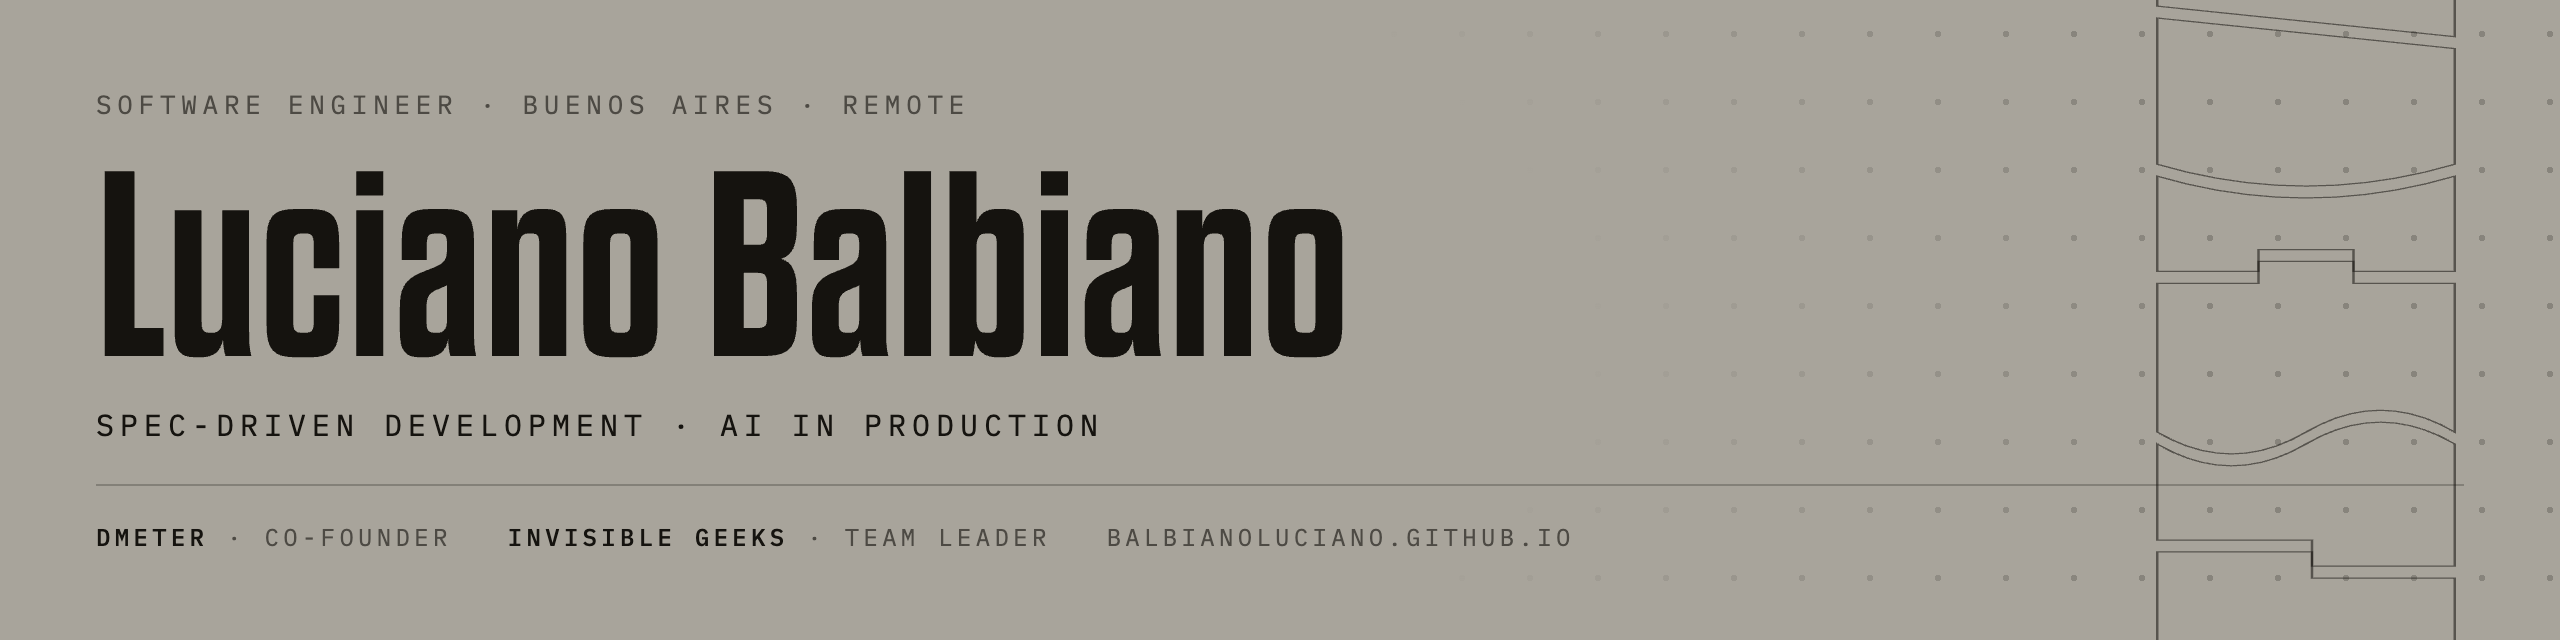
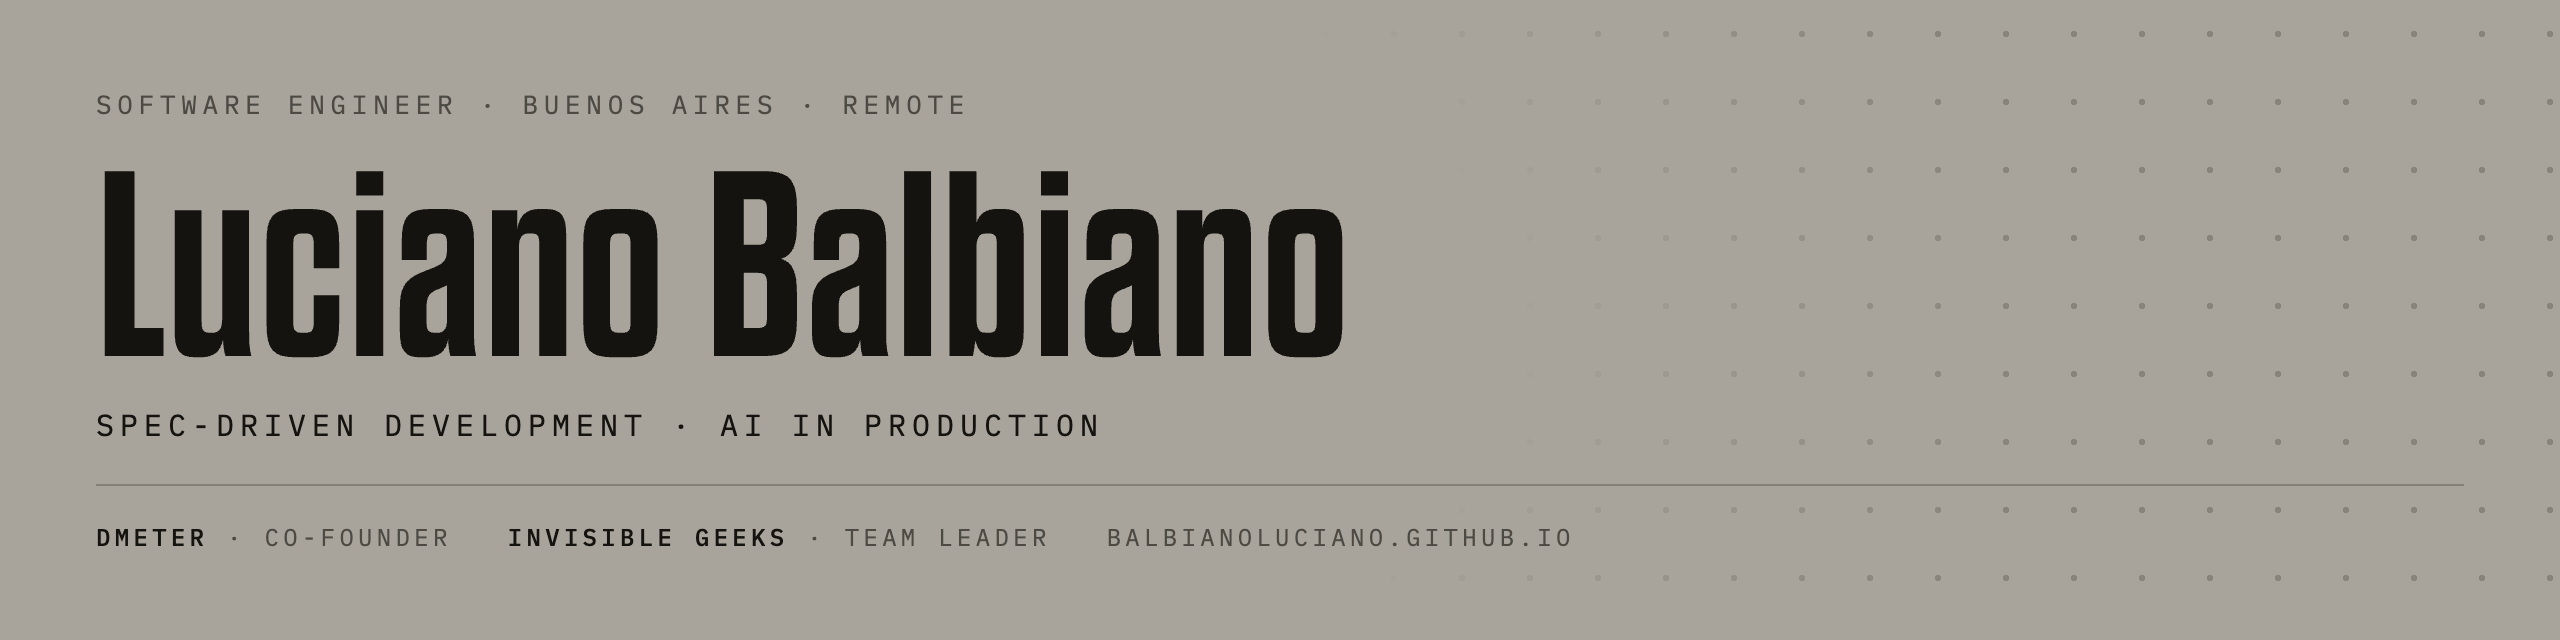
feat(readme): botones e insignias propias, y los proyectos arriba
- Cabecera sin las piezas de la derecha.
- Los links dejan de ser texto azul: pasan a ser bloques cuadrados de hormigon
  con la flecha, generados por scripts/insignias.mjs. El portfolio es el unico
  en baranda, que es el acento del manual.
- El stack deja los badges de logos ajenos por chips de linea fina con la misma
  mono en caja alta.
- Orden: introduccion, proyectos, open source, stack, formacion, disponibilidad
  y al final las contribuciones, que son un agregado.
- Open source queda solo con autofill: el portfolio es un portfolio, no una
  herramienta.

diff --git a/scripts/cabecera.html b/scripts/cabecera.html
@@ -15,7 +15,7 @@
     display: flex; flex-direction: column; justify-content: space-between;
     /* Los agujeros de los tensores: solo en el vacio de la derecha */
     background-image:
-      radial-gradient(ellipse 62% 120% at 24% 50%, #a8a49b 60%, transparent 100%),
+      radial-gradient(ellipse 58% 120% at 22% 50%, #a8a49b 62%, transparent 100%),
       radial-gradient(circle at center, rgba(21, 19, 15, 0.22) 0 1.6px, transparent 1.7px);
     background-size: 100% 100%, 34px 34px;
   }
@@ -28,9 +28,6 @@
   .pie { display: flex; gap: 28px; font-size: 12px; letter-spacing: 0.18em; text-transform: uppercase; color: rgba(21,19,15,.62);
          border-top: 1px solid rgba(21,19,15,.25); padding-top: 18px; }
   .pie b { color: #15130f; font-weight: 500; }
-  .piezas { position: absolute; right: 52px; top: -26px; height: calc(100% + 52px); width: 150px; }
-  .piezas svg { width: 100%; height: 100%; overflow: visible; }
-  .piezas path { fill: none; stroke: rgba(21,19,15,.55); stroke-width: 1.25; }
 </style>
 <div class="cabecera">
   <div>
@@ -45,42 +42,4 @@
     <span><b>Invisible Geeks</b> · team leader</span>
     <span>balbianoluciano.github.io</span>
   </div>
-  <div class="piezas"></div>
 </div>
-<script>
-  // Las mismas juntas del mapa de proyectos: cada una distinta, y la misma
-  // linea a los dos lados, por eso encastran.
-  const JUNTAS = [
-    [[0,-0.7],['L',1,0.7]],
-    [[0,0],['Q',0.5,2,1,0]],
-    [[0,0],['L',0.34,0],['L',0.34,-1],['L',0.66,-1],['L',0.66,0],['L',1,0]],
-    [[0,0],['Q',0.25,2,0.5,0],['Q',0.75,-2,1,0]],
-    [[0,-0.6],['L',0.52,-0.6],['L',0.52,0.6],['L',1,0.6]],
-  ];
-  const ALTOS = [74, 132, 96, 150, 110, 128];
-  const W = 150, GAP = 12;
-  const total = ALTOS.reduce((a,b)=>a+b,0) + GAP*(ALTOS.length-1);
-  const X = (u) => u*(W-1.2)+0.6;
-  const fin = (p,k)=> k===0 ? p[0] : (p[k][0]==='Q' ? [p[k][3],p[k][4]] : [p[k][1],p[k][2]]);
-  const tramo = (perfil,y,a,alReves) => {
-    const P=(u,d)=>`${X(u).toFixed(2)} ${(y+d*a).toFixed(2)}`;
-    if(!alReves) return perfil.slice(1).map(s=>s[0]==='Q'?`Q${P(s[1],s[2])} ${P(s[3],s[4])}`:`L${P(s[1],s[2])}`).join(' ');
-    let d='';
-    for(let k=perfil.length-1;k>=1;k--){const s=perfil[k];const [u,v]=fin(perfil,k-1);
-      d += s[0]==='Q'?`Q${P(s[1],s[2])} ${P(u,v)} `:`L${P(u,v)} `;}
-    return d.trim();
-  };
-  const RECTA=[[0,0],['L',1,0]];
-  let y=0, d='';
-  ALTOS.forEach((h,k)=>{
-    const top=y, bot=y+h;
-    const arriba = k>0 ? JUNTAS[(k-1)%JUNTAS.length] : RECTA;
-    const abajo = k<ALTOS.length-1 ? JUNTAS[k%JUNTAS.length] : RECTA;
-    const aA = k>0 ? Math.min(0.3*Math.min(ALTOS[k-1],h),22) : 0;
-    const aB = k<ALTOS.length-1 ? Math.min(0.3*Math.min(h,ALTOS[k+1]),22) : 0;
-    const s0=arriba[0], e1=fin(abajo,abajo.length-1);
-    d += `<path d="M${X(s0[0]).toFixed(2)} ${(top+s0[1]*aA).toFixed(2)} ${tramo(arriba,top,aA,false)} L${X(e1[0]).toFixed(2)} ${(bot+e1[1]*aB).toFixed(2)} ${tramo(abajo,bot,aB,true)} Z"/>`;
-    y = bot + GAP;
-  });
-  document.querySelector('.piezas').innerHTML = `<svg viewBox="0 0 ${W} ${total}" preserveAspectRatio="none">${d}</svg>`;
-</script>

diff --git a/README.md b/README.md
@@ -4,24 +4,17 @@ I build AI systems that reach production instead of stopping at a demo: MCP serv
 
 Six products in production at Dmeter, the studio I co-founded, where I lead the technical decisions and architecture. Before the AI work: five years of Laravel, Vue and TypeScript, large-scale migrations and multi-tenant systems.
 
-Buenos Aires, Argentina. EU citizen (Spain), so no sponsorship for European positions. Remote-first. Portfolio: **[balbianoluciano.github.io](https://balbianoluciano.github.io)**
-
----
-
-## Where my commits live
-
-Most of my daily code goes to my work account. This one holds the open projects and the side work.
-
-[![Contributions in the last year at InvisibleGeeksBalbiano](assets/contribuciones.svg)](https://github.com/InvisibleGeeksBalbiano)
-
-The chart is drawn here, from the public contribution data, and redrawn once a day by a workflow in this repo. Work account: **[@InvisibleGeeksBalbiano](https://github.com/InvisibleGeeksBalbiano)**
+Buenos Aires, Argentina. EU citizen (Spain), so no sponsorship for European positions. Remote-first.
 
 ---
 
 ## Built with AI
 
-**[Gridwright](https://github.com/BalbianoLuciano/gridwright)** — End-to-end layout pipeline driven from Claude Code: a Figma node goes in, and a built, visually verified component registered in the project's design system comes out. A long prompt telling an agent how to build a layout doesn't work — the agent skips the analysis whenever the request looks simple. So the state machine lives on disk and a CLI enforces it: Claude doesn't decide which stage comes next, it asks. Anything that can be checked with an assert is code — pulling assets, distilling the tree, matching tokens, rendering and diffing; naming, the prop API and what to reuse are left to the model. The ruler was built before the factory: every component is rendered with Playwright and compared against the design with a perceptual diff. 250 tests.
+**Gridwright** — End-to-end layout pipeline driven from Claude Code: a Figma node goes in, and a built, visually verified component registered in the project's design system comes out. A long prompt telling an agent how to build a layout doesn't work — the agent skips the analysis whenever the request looks simple. So the state machine lives on disk and a CLI enforces it: Claude doesn't decide which stage comes next, it asks. Anything that can be checked with an assert is code — pulling assets, distilling the tree, matching tokens, rendering and diffing; naming, the prop API and what to reuse are left to the model. The ruler was built before the factory: every component is rendered with Playwright and compared against the design with a perceptual diff. 250 tests.
+
 *TypeScript · Node · Vite · Tailwind 4 · Playwright · sharp · ts-morph · Claude Code plugin*
+
+[![Gridwright · repo](assets/insignias/gridwright.svg)](https://github.com/BalbianoLuciano/gridwright)
 
 **RAG over the studio's knowledge** — Retrieval over our projects and internal documentation with local embeddings and SQLite, no external vector service. Chunking, indexing and retrieval written directly rather than delegated to a framework, so retrieval quality is something I can measure and tune.
 
@@ -33,20 +26,33 @@ One design rule runs through all of it: **the system generates, the person decid
 
 ## In production
 
-**[Hornero](https://hornero.dmeter.com.ar)** — Catalogue and stock engine that runs the same for a clothing shop, a hardware store or a gym: what changes between trades is data, not code. Each business declares its own schema and the dimensions generate the variant matrix. Isolation between businesses is guaranteed by Postgres row-level security rather than the ORM, with **248 tests against a real Postgres**.
+**Hornero** — Catalogue and stock engine that runs the same for a clothing shop, a hardware store or a gym: what changes between trades is data, not code. Each business declares its own schema and the dimensions generate the variant matrix. Isolation between businesses is guaranteed by Postgres row-level security rather than the ORM, with **248 tests against a real Postgres**.
+
 *Hono · Drizzle · Cloudflare Workers · Postgres 16 · Next · React 19 · PWA*
 
-**[Prolicht](https://www.prolicht.at)** — Site and catalogue for an Austrian architectural LED manufacturer with two decades of content trapped in a legacy CMS. I migrated **257 projects** with reproducible commands and a dry-run mode to review the diff before applying it, plus a room configurator and a presentation editor with a shareable client link.
+[![Hornero · live](assets/insignias/hornero.svg)](https://hornero.dmeter.com.ar)
+
+**Prolicht** — Site and catalogue for an Austrian architectural LED manufacturer with two decades of content trapped in a legacy CMS. I migrated **257 projects** with reproducible commands and a dry-run mode to review the diff before applying it, plus a room configurator and a presentation editor with a shareable client link.
+
 *Laravel 12 · Vue 3 · Inertia 2 · Tailwind 4 · MySQL 8 · Docker*
 
-**Portal de Pericias** — Multi-tenant SaaS where a court-appointed expert runs their whole practice: cases, expert reports, fees and deadlines. Eight entities on a layered architecture, digital evidence fingerprinted with MD5/SHA1/SHA256 on upload, documents in private storage, permissions guaranteed at the database level.
-*Laravel 13 · PHP 8.5 · Vue 3 · Inertia · MySQL 8.4 · Pest 4*
+[![Prolicht · live](assets/insignias/prolicht.svg)](https://www.prolicht.at)
 
-**[El Zorro Gris](https://elzorrogris.es)** — Platform for older adults across five verticals, with an engine that builds itineraries around how much the traveller can actually take: every activity carries physical effort and mental fatigue on a 1–5 scale, with caps per age segment and adjustments for weather and season. Custom chatbot with streaming, plus a custom EPUB reader with native Epub.js modifications.
+**El Zorro Gris** — Platform for older adults across five verticals, with an engine that builds itineraries around how much the traveller can actually take: every activity carries physical effort and mental fatigue on a 1–5 scale, with caps per age segment and adjustments for weather and season. Custom chatbot with streaming, plus a custom EPUB reader with native Epub.js modifications.
+
 *Laravel · Vue 3 · Inertia · Stripe · OpenAI · Claude · Pest · Playwright*
 
-**[Malmberg.nl](https://malmberg.nl)** — Migration of **800+ pages** to HubSpot CMS on a custom React Islands boilerplate with selective hydration: only genuinely interactive components ship JavaScript.
+[![El Zorro Gris · live](assets/insignias/zorro-gris.svg)](https://elzorrogris.es)
+
+**Malmberg.nl** — Migration of **800+ pages** to HubSpot CMS on a custom React Islands boilerplate with selective hydration: only genuinely interactive components ship JavaScript.
+
 *React 18 · TypeScript · Tailwind · HubSpot CMS · Serverless Functions*
+
+[![Malmberg.nl · live](assets/insignias/malmberg.svg)](https://malmberg.nl)
+
+**Portal de Pericias** — Multi-tenant SaaS where a court-appointed expert runs their whole practice: cases, expert reports, fees and deadlines. Eight entities on a layered architecture, digital evidence fingerprinted with MD5/SHA1/SHA256 on upload, documents in private storage, permissions guaranteed at the database level.
+
+*Laravel 13 · PHP 8.5 · Vue 3 · Inertia · MySQL 8.4 · Pest 4*
 
 **Relay** — In-house operations workspace: chats, email, files, payments and numbers on a single screen. One inbox where context travels with the thread instead of living in someone's head. It plugs into what a company already uses rather than asking them to migrate all at once.
 
@@ -54,31 +60,50 @@ One design rule runs through all of it: **the system generates, the person decid
 
 ## Open source
 
-**[autofill](https://github.com/BalbianoLuciano/autofill)** — Chrome extension that fills job application forms. The hard part isn't writing into an input: it's recognising which field is which when the HTML doesn't help, and getting the value to actually register. Greenhouse, Lever and Ashby are React, and React discards `element.value = x` — the fix is to invoke the native prototype setter, which bypasses the descriptor React installed on the instance. A dictionary of 38 fields and 385 ways of asking for them across five languages, with a five-step cascade that compares by tokens rather than substrings. 127 tests, several traced from real forms. No LLM: the heuristics cover the case, and the model is documented as the last resort.
+**autofill** — Chrome extension that fills job application forms. The hard part isn't writing into an input: it's recognising which field is which when the HTML doesn't help, and getting the value to actually register. Greenhouse, Lever and Ashby are React, and React discards `element.value = x` — the fix is to invoke the native prototype setter, which bypasses the descriptor React installed on the instance. A dictionary of 38 fields and 385 ways of asking for them across five languages, with a five-step cascade that compares by tokens rather than substrings. 127 tests, several traced from real forms. No LLM: the heuristics cover the case, and the model is documented as the last resort.
+
 *TypeScript · WXT · Manifest V3 · Vitest · happy-dom*
 
-**[Portfolio](https://github.com/BalbianoLuciano/BalbianoLuciano.github.io)** — One screen, no scrolling anywhere, where every deeper level opens as a radial mask from the exact point you clicked. Behind the gates, the projects are pieces of a single column that fit into each other: hovering names one, clicking assembles them and carries the whole set to a different place on screen for each project. Built on a single governing specification written before any code, and every interaction obeys it.
-*Astro · React islands · GSAP · Lenis · Tailwind*
+[![autofill · repo](assets/insignias/autofill.svg)](https://github.com/BalbianoLuciano/autofill)
 
 ---
 
 ## Stack
 
-**AI and agents** · Model Context Protocol · Claude Code · OpenAI API · Claude API · Groq · OpenRouter · Llama 3.3
-**RAG and data** · ChromaDB · Hugging Face Transformers · local embeddings · SQLite · PostgreSQL · MySQL · Prisma · Drizzle
-**Languages** · TypeScript · JavaScript · Python · PHP
-**Web** · Laravel · Vue · React · Next.js · Astro · Inertia.js · Tailwind · Hono · Filament
-**Infrastructure** · Cloudflare Workers · Docker · GitHub Actions · Vite
-**Testing** · Pest · Playwright · Vitest · golden tests
-**Method** · Spec-driven development · versioned business rules
+**AI and agents**
+
+![Model Context Protocol](assets/stack/model-context-protocol.svg) ![Claude Code](assets/stack/claude-code.svg) ![OpenAI API](assets/stack/openai-api.svg) ![Claude API](assets/stack/claude-api.svg) ![Groq](assets/stack/groq.svg) ![OpenRouter](assets/stack/openrouter.svg) ![Llama 3.3](assets/stack/llama-3-3.svg)
+
+**RAG and data**
+
+![ChromaDB](assets/stack/chromadb.svg) ![local embeddings](assets/stack/local-embeddings.svg) ![SQLite](assets/stack/sqlite.svg) ![PostgreSQL](assets/stack/postgresql.svg) ![MySQL](assets/stack/mysql.svg) ![Prisma](assets/stack/prisma.svg) ![Drizzle](assets/stack/drizzle.svg)
+
+**Languages**
+
+![TypeScript](assets/stack/typescript.svg) ![JavaScript](assets/stack/javascript.svg) ![Python](assets/stack/python.svg) ![PHP](assets/stack/php.svg)
+
+**Web**
+
+![Laravel](assets/stack/laravel.svg) ![Vue](assets/stack/vue.svg) ![React](assets/stack/react.svg) ![Next.js](assets/stack/next-js.svg) ![Astro](assets/stack/astro.svg) ![Inertia.js](assets/stack/inertia-js.svg) ![Tailwind](assets/stack/tailwind.svg) ![Hono](assets/stack/hono.svg) ![Filament](assets/stack/filament.svg)
+
+**Infrastructure and testing**
+
+![Cloudflare Workers](assets/stack/cloudflare-workers.svg) ![Docker](assets/stack/docker.svg) ![GitHub Actions](assets/stack/github-actions.svg) ![Vite](assets/stack/vite.svg) ![Pest](assets/stack/pest.svg) ![Playwright](assets/stack/playwright.svg) ![Vitest](assets/stack/vitest.svg) ![golden tests](assets/stack/golden-tests.svg)
+
+**Method**
+
+![Spec-driven development](assets/stack/spec-driven-development.svg) ![versioned business rules](assets/stack/versioned-business-rules.svg)
 
 ---
 
 ## Education
 
 **Universidad Tecnológica Nacional** — Tecnicatura Universitaria en Programación *(in progress, Mar 2026 — Dec 2027)*
+
 **Informatorio Chaco** — Python/Django Web Developer *(2021)*
+
 **U.N.N.E.** — Architecture and Urbanism *(2017–2020, incomplete)* — where the interface work comes from
+
 **English** — B2 upper intermediate, [EF SET certified](https://cert.efset.org/YTogwD)
 
 ---
@@ -87,4 +112,14 @@ One design rule runs through all of it: **the system generates, the person decid
 
 AI Engineer · Senior Full Stack · Tech Lead · Team Leader. Remote worldwide; EU citizen, so no sponsorship is needed for European positions. Spanish native, English B2.
 
-[Portfolio](https://balbianoluciano.github.io) · [LinkedIn](https://www.linkedin.com/in/luciano-balbiano/) · [balbiano06@gmail.com](mailto:balbiano06@gmail.com)
+[![Portfolio](assets/insignias/portfolio.svg)](https://balbianoluciano.github.io) [![LinkedIn](assets/insignias/linkedin.svg)](https://www.linkedin.com/in/luciano-balbiano/) [![balbiano06@gmail.com](assets/insignias/mail.svg)](mailto:balbiano06@gmail.com)
+
+---
+
+## Where my commits live
+
+Most of my daily code goes to my work account. This one holds the open projects and the side work. The chart is drawn here from the public contribution data, and redrawn once a day by a workflow in this repo.
+
+[![Contributions in the last year at InvisibleGeeksBalbiano](assets/contribuciones.svg)](https://github.com/InvisibleGeeksBalbiano)
+
+[![@InvisibleGeeksBalbiano](assets/insignias/cuenta-trabajo.svg)](https://github.com/InvisibleGeeksBalbiano)
